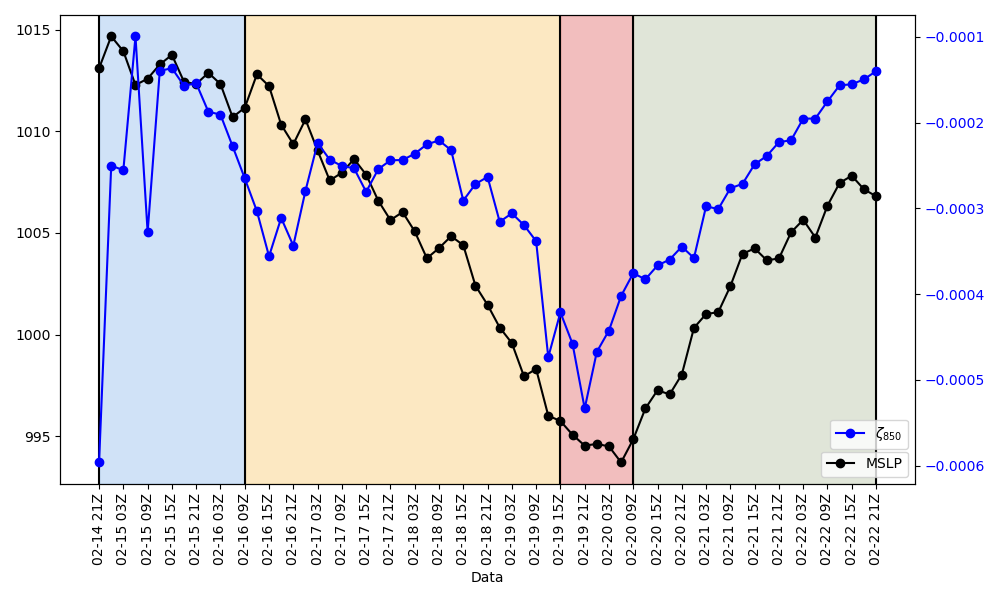
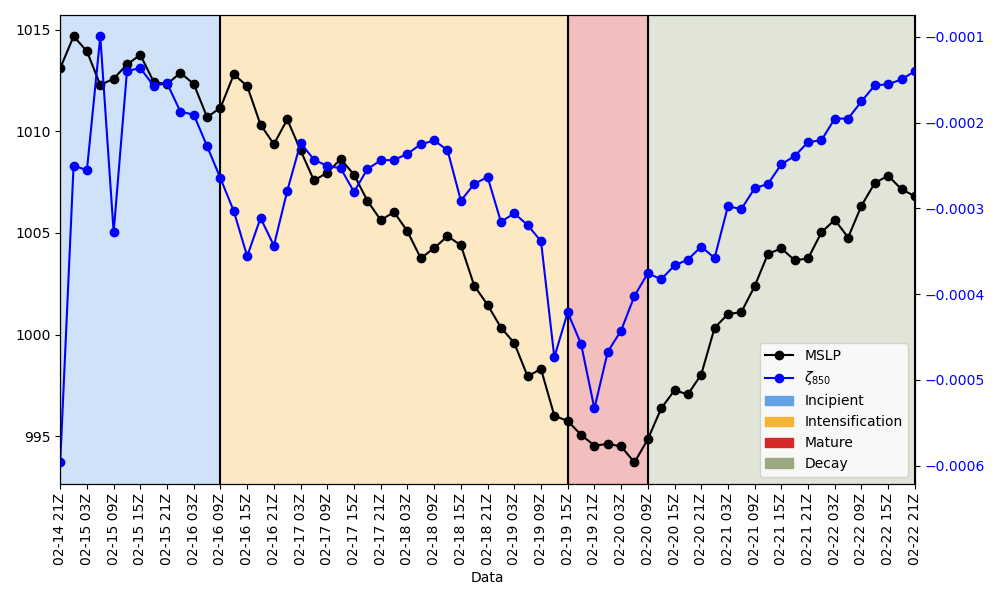
serie zeta mslp

Changed region(s): [[0.496, 0.03, 0.93, 0.96], [0.031, 0.0, 0.496, 0.96], [0.465, 0.42, 0.496, 0.48]]

diff --git a/Akara/Charts/scripts/akara_fase.py b/Akara/Charts/scripts/akara_fase.py
@@ -7,6 +7,7 @@ import numpy as np
 import pandas as pd
 import scipy.ndimage
 import matplotlib.dates as mdates
+import matplotlib.patches as mpatches
 
 
 DIRCSV = '/home/victor/USP/sinotica3/ATMOS-BUD_Results/Akara/AtmosBud/akara1_track/'
@@ -22,7 +23,6 @@ df_plot['time'] = pd.to_datetime(df_plot['time'])
 df2['time'] = pd.to_datetime(df2['time'])
 
 
-
 # Plotar os dados com eixos duplos
 fig, ax1 = plt.subplots(figsize=(10, 6))
 
@@ -30,13 +30,21 @@ fig, ax1 = plt.subplots(figsize=(10, 6))
 ax1.plot(df_plot['time'], df2['mslp'], label='MSLP', marker='o', color='black')
 ax1.set_xlabel('Data')
 ax1.tick_params(axis='y', labelcolor='black')
-ax1.legend(loc='lower right', bbox_to_anchor=(1, 0))  # Ajuste da posição da legenda do eixo 1
+#ax1.legend(loc='lower left', bbox_to_anchor=(0.01, 0))  # Ajuste da posição da legenda do eixo 1
 
 # Criar um segundo eixo y (eixo secundário) com escala diferente
 ax2 = ax1.twinx()
 ax2.plot(df_plot['time'], df_plot['min_max_zeta_850'], label=r'$\zeta_{850}$', marker='o', color='blue')  # Usando LaTeX para zeta com subscrito
 ax2.tick_params(axis='y', labelcolor='blue')
-ax2.legend(loc='lower right', bbox_to_anchor=(1, 0.06))  # Ajuste da posição da legenda
+#ax2.legend(loc='lower left', bbox_to_anchor=(0.01, 0.06))  # Ajuste da posição da legenda
+
+patches = [
+    mpatches.Patch(color='black', label='MSLP'),
+    mpatches.Patch(color='blue', label=r'$\zeta_{850}$')
+]
+
+# Adicione a legenda ao gráfico
+plt.legend(handles=patches, loc='lower left')
 
   # Substitua com o tempo desejado
 time0 = pd.to_datetime('2024-02-14T21')
@@ -51,8 +59,9 @@ ax1.axvline(time2, color='black', linewidth=1.5)
 ax1.axvline(time3, color='black', linewidth=1.5)
 ax1.axvline(time4, color='black', linewidth=1.5)
 
-colors_phases = {'incipient': '#65a1e6', 'intensification': '#f7b538',
-                     'mature': '#d62828', 'decay': '#9aa981', 'residual': 'gray'}
+colors_phases = {'Incipient': '#65a1e6', 'Intensification': '#f7b538',
+                 'Mature': '#d62828', 'Decay': '#9aa981'}
+
 ax1.axvspan(time0, time1, color='#65a1e6', alpha=0.3)
 ax1.axvspan(time1, time2, color='#f7b538', alpha=0.3)
 ax1.axvspan(time2, time3, color='#d62828', alpha=0.3)
@@ -63,6 +72,26 @@ ax1.axvspan(time3, time4, color='#9aa981', alpha=0.3)
 time_ticks = df_plot['time'][::2]
 ax1.set_xticks(time_ticks)  # Configurar os ticks no eixo X
 ax1.set_xticklabels([t.strftime('%Y-%m-%d %HZ')[5:] for t in time_ticks], rotation=90)  # Formatando as datas
+
+
+plt.xlim(df_plot['time'][0], df_plot['time'][64])
+
+
+
+# Crie legendas apenas para as fases que você deseja mostrar
+patches = [mpatches.Patch(color=color, label=phase) for phase, color in colors_phases.items()]
+
+# Adicione a legenda ao gráfico
+plt.legend(handles=patches, loc=(0.82, 0.01))
+
+handles, labels = [], []
+handles.append(ax1.lines[0])
+handles.append(ax2.lines[0])
+handles.extend(patches)
+labels = ['MSLP', r'$\zeta_{850}$'] + list(colors_phases.keys())
+
+# Adicione a legenda ao gráfico
+plt.legend(handles=handles, labels=labels, loc='lower right', ncol=1)
 
 # Mostrar o gráfico
 plt.tight_layout()
